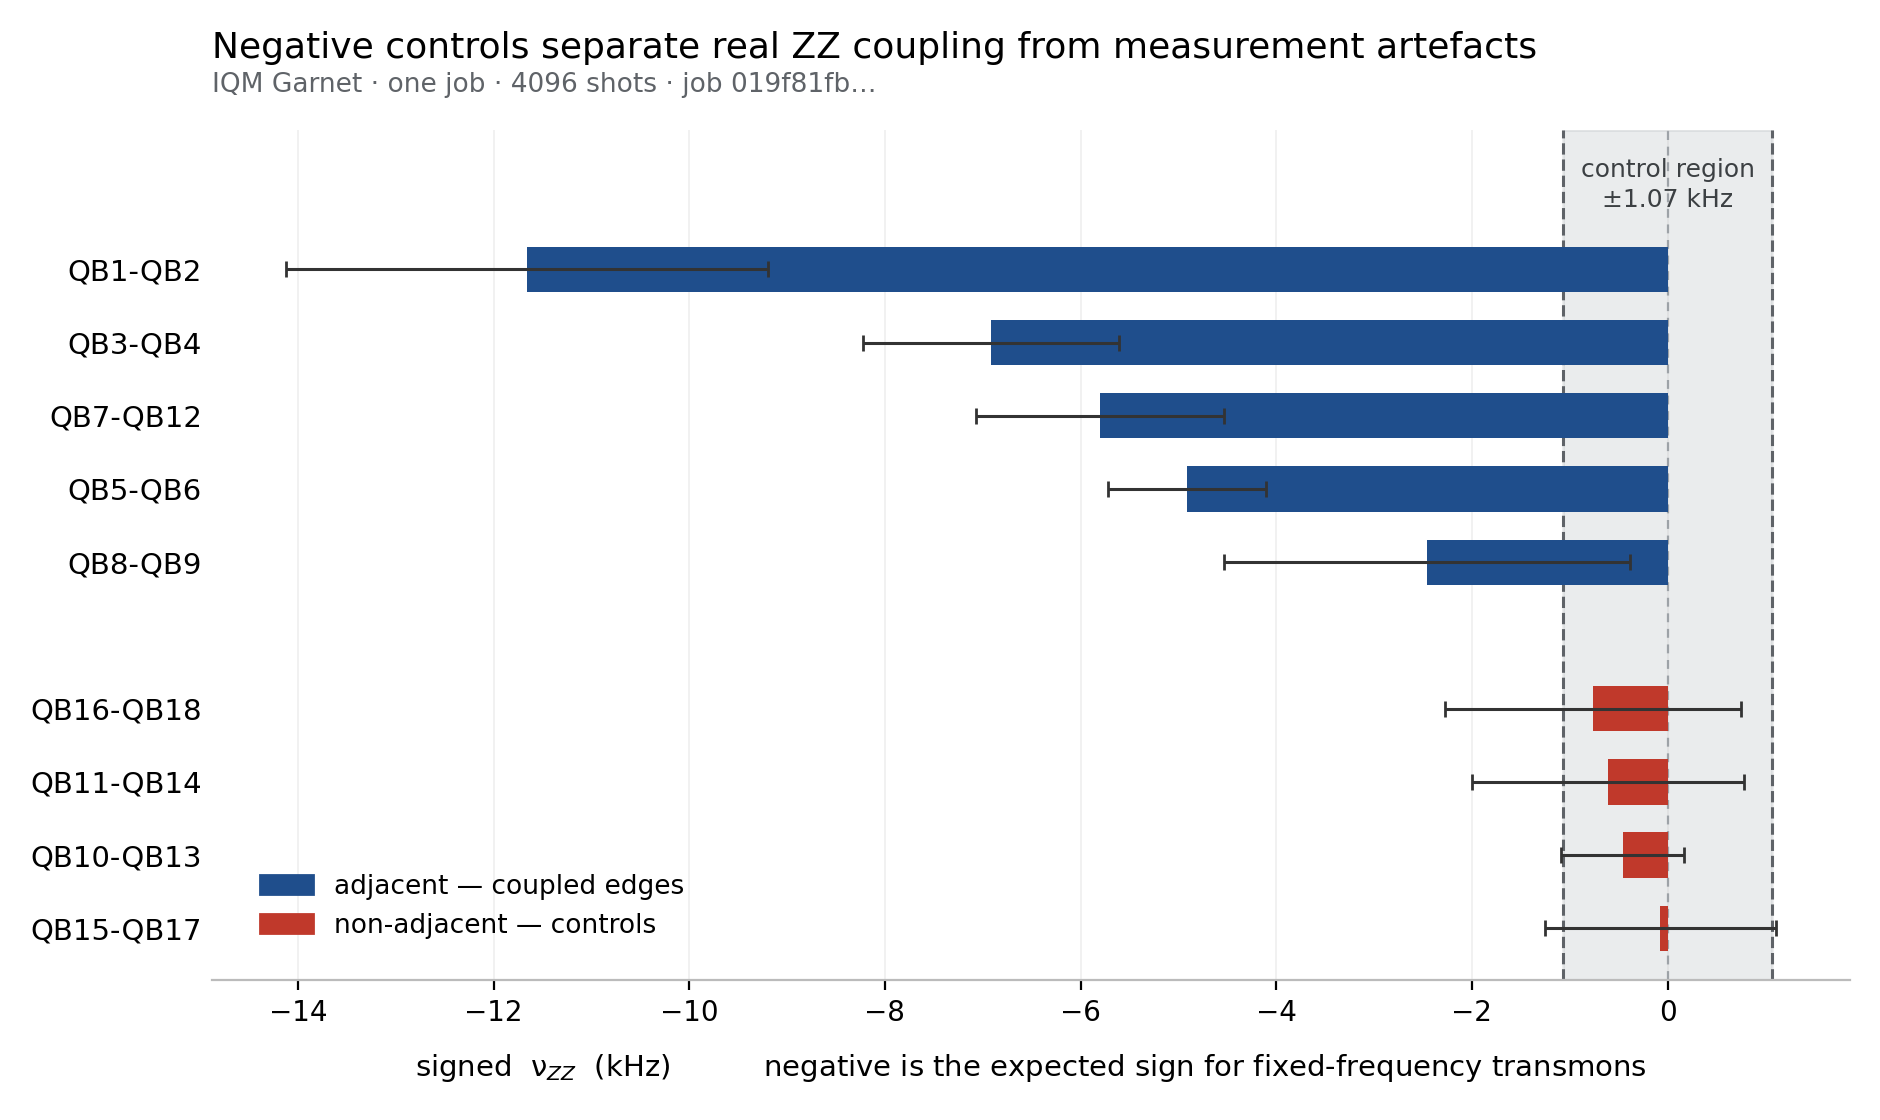
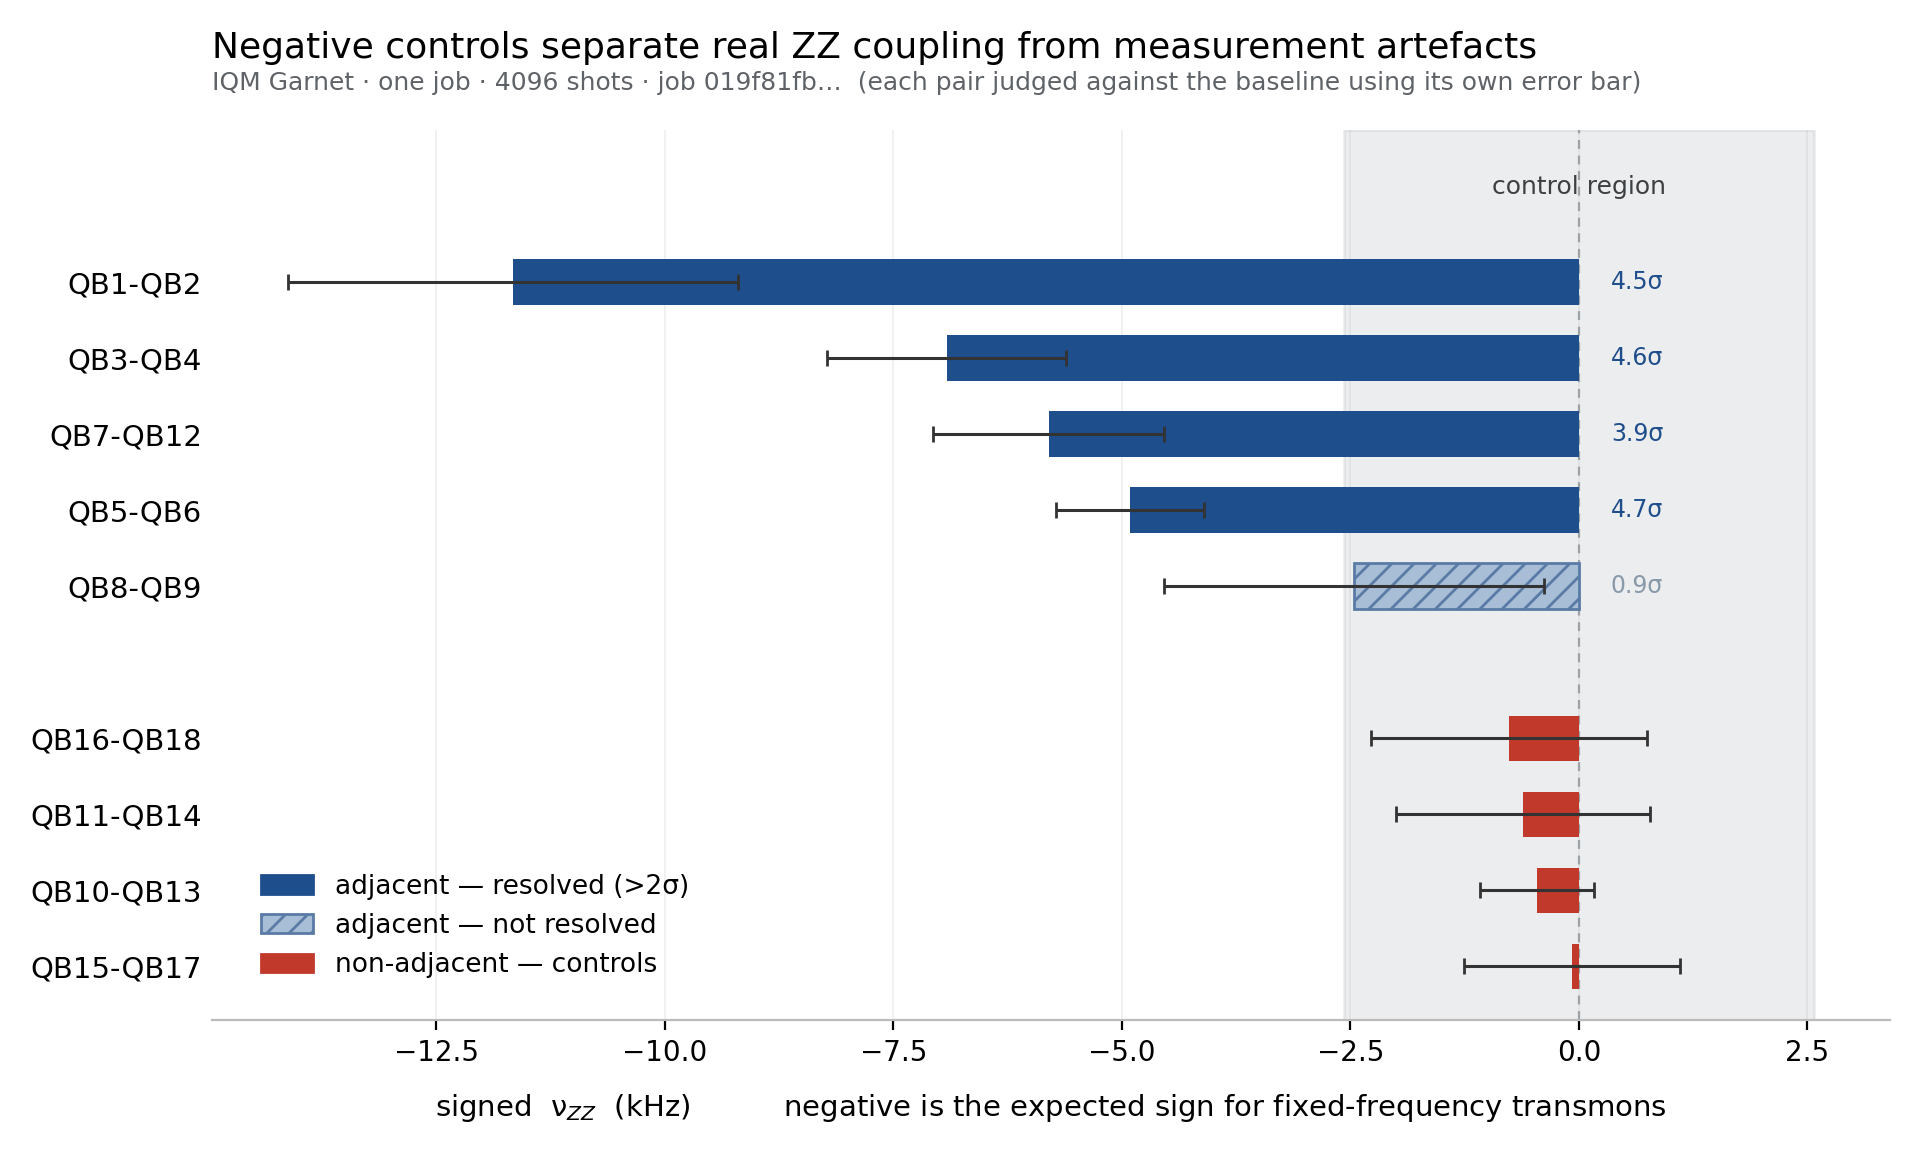
Add files via upload

diff --git a/README.md b/README.md
@@ -4,7 +4,7 @@
 
 One job. Every edge. A control that tells you whether the numbers are real.
 
-![Residual ZZ on IQM Garnet: adjacent edges fall well outside the control region, non-adjacent controls fall inside it](nu_zz_garnet.png)
+![Residual ZZ on IQM Garnet: four of five adjacent edges are resolved well outside the control region; the non-adjacent controls sit inside it](nu_zz_garnet.png)
 
 Parallel crosstalk characterisation is established practice — see Murali et al.
 (ASPLOS 2020), Sarovar et al. (Quantum **4**, 321), Ketterer & Wellens
@@ -140,8 +140,11 @@ T1. The coupling map, pair selection and τ range follow automatically.
       (0, 1)      QB1-QB2 | adjacent |  -11.657 ± 2.463 |    0.193
       (9, 12)    QB10-QB13| control  |   -0.458 ± 0.627 |    0.510
 
-  control baseline : mean -0.478 kHz   spread ±0.296 kHz
-  threshold        : |ν_ZZ| > 1.070 kHz
+  control baseline : -0.444 +/- 0.487 kHz (0.91 sigma from zero)
+  test             : each pair vs baseline, using its own error
+
+    (0, 1)   -11.657 +/- 2.463 kHz  * coupled          (4.5 sigma)
+    (7, 8)    -2.458 +/- 2.075 kHz    not distinguishable (0.9 sigma)
 ```
 
 **Qubit numbering.** Pairs are reported as zero-based indices from the coupling
@@ -149,8 +152,12 @@ map. IQM labels the same qubits from 1, so `(0, 1)` is `QB1-QB2` and `(7, 8)` is
 `QB8-QB9`. Both forms appear in the console output and in the JSON.
 
 - **control baseline** — where zero actually sits for this apparatus, today.
-- **threshold** — `|mean| + 2×spread` of the controls. Adjacent pairs above it
-  are reported as coupled; pairs below it are not distinguishable from nothing.
+  Reported as a weighted mean with its standard error, so you can see whether
+  the apparatus has a real offset or is simply noisy.
+- **per-pair test** — each adjacent pair is compared to the baseline using
+  **its own** error bar: `|ν_ZZ − base| / √(err² + base_se²) > 2σ`. A single
+  global threshold would hide the fact that a pair with a wide error bar can
+  sit far from zero and still be unresolved.
 - **contrast** — surviving fringe amplitude at the longest τ. Low contrast means
   short T2 on that pair and a correspondingly larger error bar.
 
@@ -180,7 +187,7 @@ avoid it. The numbers below are the actual Garnet measurement.
 | QB3-QB4 | 6.47 | 0.010 | 0.020 | 0.041 | 0.102 |
 | QB7-QB12 | 5.36 | 0.008 | 0.017 | 0.034 | 0.084 |
 | QB5-QB6 | 4.47 | 0.007 | 0.014 | 0.028 | 0.070 |
-| QB8-QB9 | 2.01 | 0.003 | 0.006 | 0.013 | 0.032 |
+| QB8-QB9 | (unresolved) | — | — | — | — |
 
 Radians. A coherent phase error of 0.1 rad is already visible in most
 algorithms; it does not average away with more shots.
@@ -195,9 +202,10 @@ Number of 1 µs idle windows before 0.1 rad accumulates:
 | QB3-QB4 | 5 |
 | QB7-QB12 | 6 |
 | QB5-QB6 | 7 |
-| QB8-QB9 | **16** |
+| QB8-QB9 | (unresolved) |
 
-Same chip, same day, a factor of five between the best and worst edge. If your
+Same chip, same day, a factor of 2.4 between the noisiest and quietest
+*resolved* edge — and QB8-QB9 may be quieter still, if more shots resolve it. If your
 circuit leaves qubits waiting — mid-circuit measurement, conditional operations,
 uneven gate scheduling — this is the difference between a usable result and a
 scrambled one.
@@ -205,8 +213,9 @@ scrambled one.
 ### 3. Choosing where to run
 
 Rank the edges and place idle-heavy parts of the circuit on the quiet ones. On
-this Garnet snapshot, QB8-QB9 accumulates 5.6× less phase error than QB1-QB2.
-No published calibration data would have told you that.
+this Garnet snapshot, QB5-QB6 accumulates 2.4× less phase error than QB1-QB2,
+and QB8-QB9 is quieter than anything the measurement could resolve. No
+published calibration data would have told you that.
 
 ### 4. Compensating what you cannot avoid
 
@@ -217,7 +226,7 @@ the neighbour being excited:
 |---|---|---|---|
 | QB1-QB2 | −0.035 | −0.070 | −0.176 |
 | QB3-QB4 | −0.020 | −0.041 | −0.102 |
-| QB8-QB9 | −0.006 | −0.013 | −0.032 |
+| QB5-QB6 | −0.014 | −0.028 | −0.070 |
 
 Coherent error is systematic, so this subtraction works — unlike shot noise,
 which you can only average down.
@@ -232,9 +241,9 @@ The relative error decides what the number is good for:
 | **15–40%** | ranking edges — trust the ordering, not the value |
 | **> 40%** | presence or absence only |
 
-In the Garnet run, four edges fall in the 18–24% band (ranking) and QB8-QB9 at
-103% only tells you something is there. If you need compensation-grade numbers,
-raise the shots or move to a device with longer T2.
+In the Garnet run, four edges fall in the 18–24% band (usable for ranking) and
+QB8-QB9 at 103% does not clear the baseline at all. If you need
+compensation-grade numbers, raise the shots or move to a device with longer T2.
 
 ### 6. Predicting the optimal delay
 
@@ -277,23 +286,32 @@ negative values gives a one-sided p of 0.063. Consistent with no coupling,
 though a small common offset of a few tenths of a kHz cannot be excluded — and
 asymmetric readout is expected to contribute at roughly that scale.
 
-**Adjacent edges** (offset-corrected)
+**Adjacent edges**, each tested against the baseline with its own error bar:
 
-| pair | ν_ZZ (kHz) | τ\* (µs) |
-|---|---|---|
-| QB1-QB2 | −11.213 ± 2.463 | 24.8 |
-| QB3-QB4 | −6.471 ± 1.309 | 42.9 |
-| QB7-QB12 | −5.357 ± 1.268 | 51.9 |
-| QB5-QB6 | −4.466 ± 0.809 | 62.2 |
-| QB8-QB9 | −2.014 ± 2.075 | 137.9 |
+| pair | ν_ZZ (kHz) | significance | τ\* (µs) |
+|---|---|---|---|
+| QB1-QB2 | −11.657 ± 2.463 | 4.5σ | 24.8 |
+| QB3-QB4 | −6.915 ± 1.309 | 4.6σ | 42.9 |
+| QB7-QB12 | −5.801 ± 1.268 | 3.9σ | 51.9 |
+| QB5-QB6 | −4.910 ± 0.809 | 4.7σ | 62.2 |
+| QB8-QB9 | −2.458 ± 2.075 | **0.9σ** | — |
 
-The weakest adjacent pair exceeds the strongest control by 3.2×. The two
-populations do not overlap.
+**Four of five edges are resolved.** QB8-QB9 sits further from zero than any
+control, but its own error bar (±2.075, 103% relative) is wide enough that it
+cannot be separated from the baseline. It is reported, not confirmed.
+
+This is exactly what the per-pair test exists to catch. A global threshold
+based only on the spread of the controls would have counted it as coupled —
+and the tool would have handed over a number that its own error bar does not
+support.
 
 All adjacent values are negative, which is the expected sign for
 fixed-frequency transmons with negative anharmonicity. Without the control this
 would be indistinguishable from a systematic offset — which is precisely the
 failure mode the control exists to catch.
+
+Resolved couplings on this run span **4.9 to 11.7 kHz**; the controls span
+**0.08 to 0.76 kHz**.
 
 ---
 